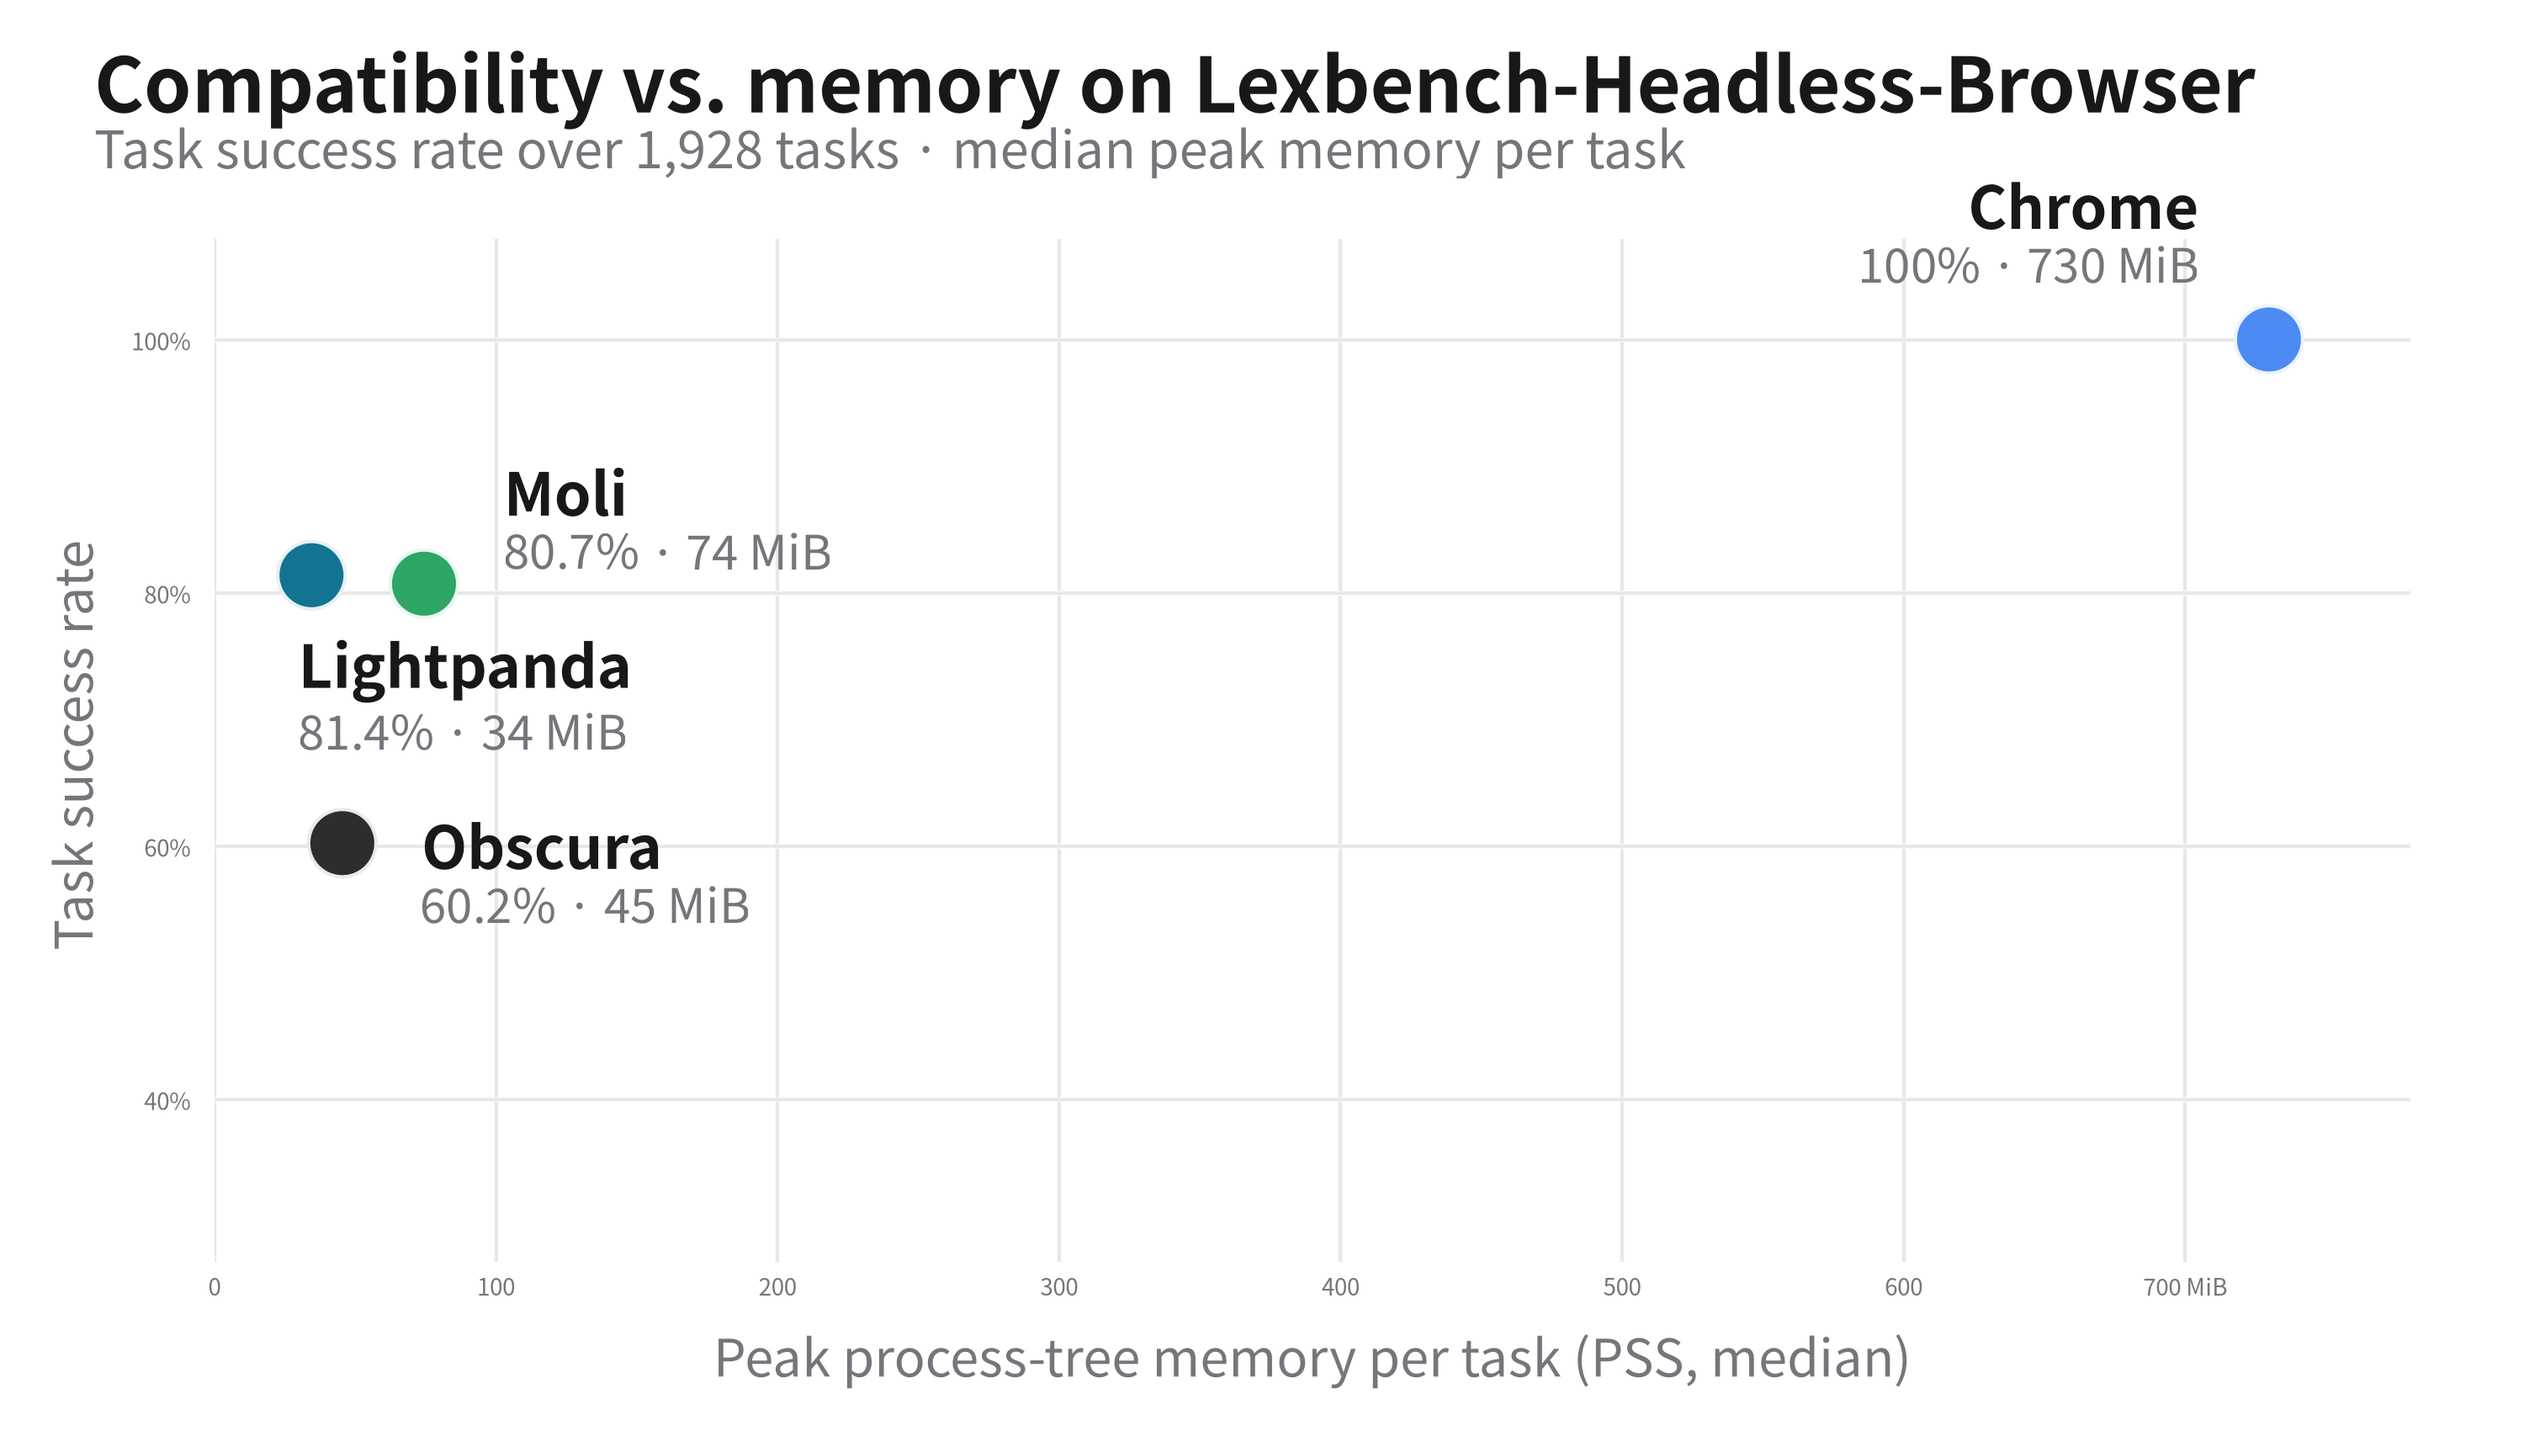
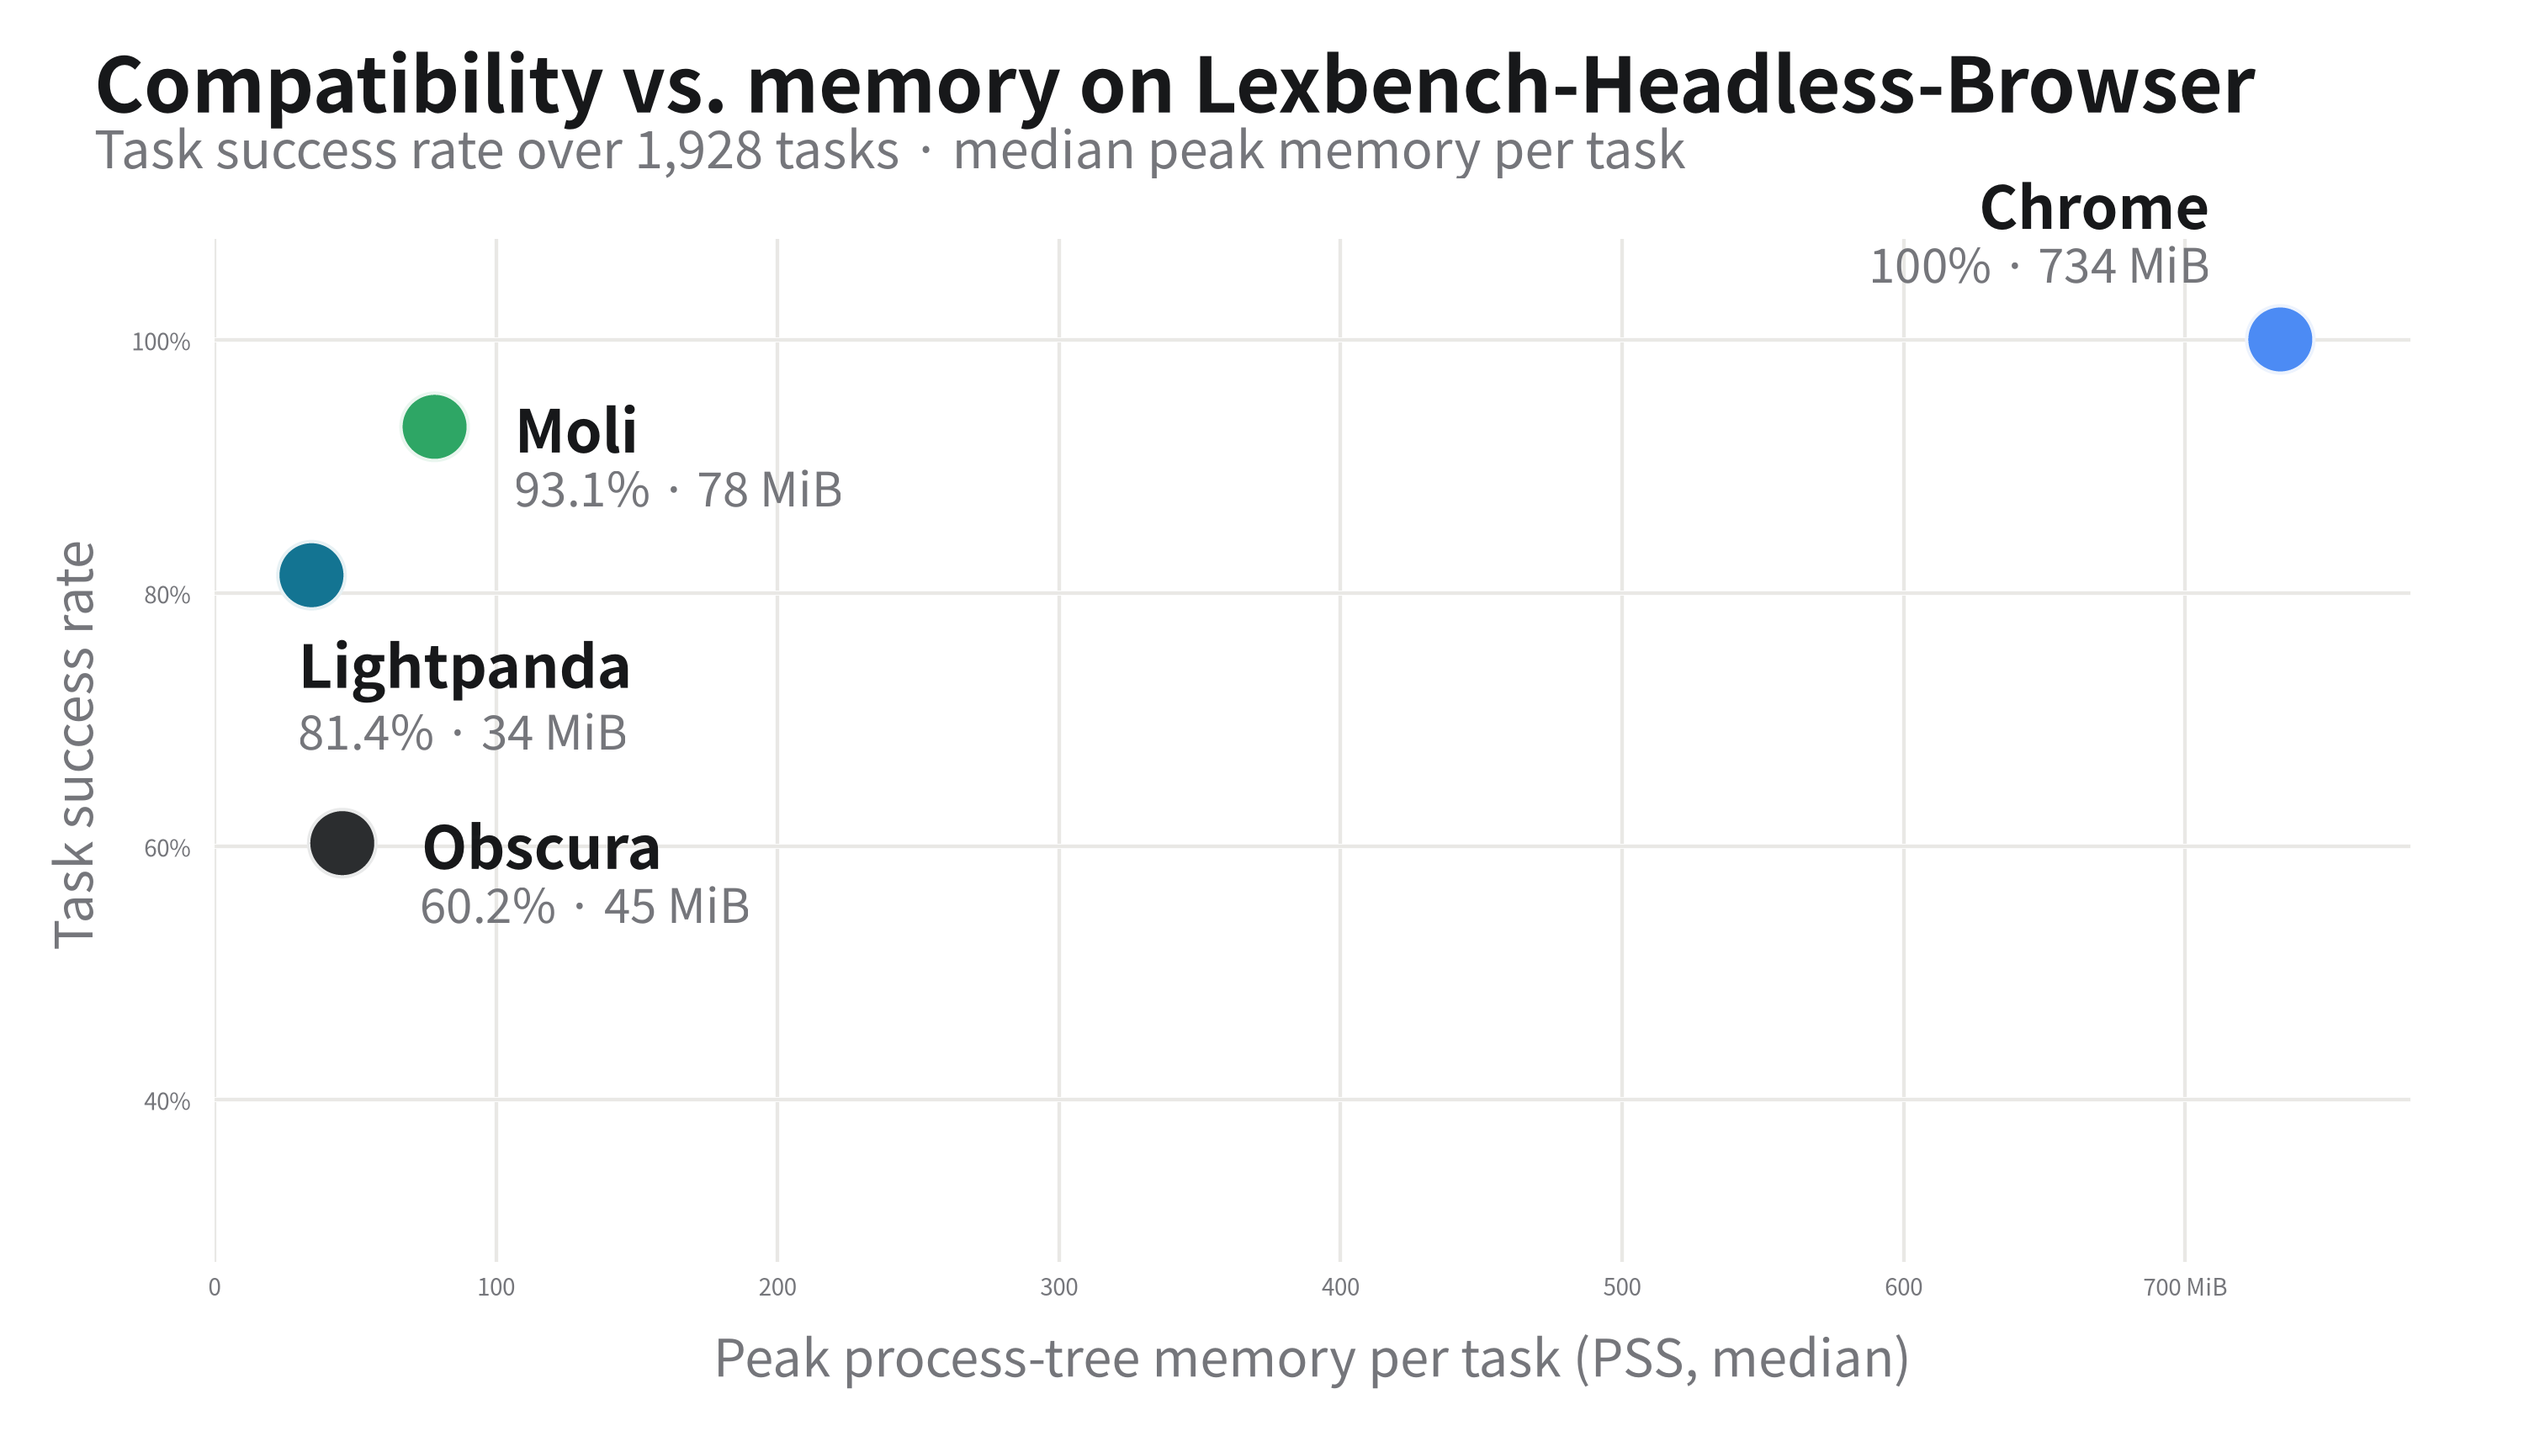
update after rebase

Changed region(s): [[0.155, 0.2773, 0.341, 0.4314], [0.744, 0.1233, 0.868, 0.2157], [0.868, 0.2157, 0.93, 0.2465]]

diff --git a/runner/run.py b/runner/run.py
@@ -195,7 +195,6 @@ ENGINE_DEFS = {
         "serve_args": ("--layout",),
         "launch_profile_args": {
             "all_resources": ("--resource",),
-            "browser_automation": ("--enable-automation",),
         },
         # Native WebDriver session identity: the capabilities.browserName the
         # session must report, and the /json/version fields (first non-empty

diff --git a/README.md b/README.md
@@ -39,7 +39,7 @@ Lexbench-Headless-Browser turns that premise into something testable: every task
 <div align="center">
   <picture>
     <source media="(prefers-color-scheme: dark)" srcset="docs/assets/four-engine-overview-dark.png">
-    <img alt="Task success rate of four headless browsers over 1,928 tasks: Chrome 100%, Lightpanda 81.4%, Moli 80.7%, Obscura 60.2%" src="docs/assets/four-engine-overview-light.png" width="100%">
+    <img alt="Task success rate of four headless browsers over 1,928 tasks: Chrome 100%, Moli 93.1%, Lightpanda 81.4%, Obscura 60.2%" src="docs/assets/four-engine-overview-light.png" width="100%">
   </picture>
 </div>
 
@@ -48,8 +48,8 @@ Lexbench-Headless-Browser turns that premise into something testable: every task
 | Engine | Version | Passed | Task success rate |
 |:---|:---|---:|---:|
 | [Chrome for Testing](https://googlechromelabs.github.io/chrome-for-testing/) | 155.0.8059.79 | 1,928 / 1,928 | **100.00%** |
+| [Moli](https://github.com/lexmount/moli) | 1.1.17 | 1,795 / 1,928 | **93.10%** |
 | [Lightpanda](https://github.com/lightpanda-io/browser) | 1.0.1 | 1,569 / 1,928 | **81.38%** |
-| [Moli](https://github.com/lexmount/moli) | 1.1.17 | 1,556 / 1,928 | **80.71%** |
 | [Obscura](https://github.com/h4ckf0r0day/obscura) | 0.2.4 | 1,161 / 1,928 | **60.22%** |
 
 </div>
@@ -60,7 +60,7 @@ Lexbench-Headless-Browser turns that premise into something testable: every task
 <div align="center">
   <picture>
     <source media="(prefers-color-scheme: dark)" srcset="docs/assets/five-engine-caliber-b-dark.png">
-    <img alt="Task success rate of five headless browsers over 1,308 comparable tasks: Chrome 100%, Moli 81.9%, Lightpanda 76.7%, Obscura 66.2%, Kitesurf 62.1%" src="docs/assets/five-engine-caliber-b-light.png" width="100%">
+    <img alt="Task success rate of five headless browsers over 1,308 comparable tasks: Chrome 100%, Moli 94.5%, Lightpanda 76.7%, Obscura 66.2%, Kitesurf 62.1%" src="docs/assets/five-engine-caliber-b-light.png" width="100%">
   </picture>
 </div>
 
@@ -69,7 +69,7 @@ Lexbench-Headless-Browser turns that premise into something testable: every task
 | Engine | Comparable subset (1,308 tasks) |
 |:---|---:|
 | [Chrome for Testing](https://googlechromelabs.github.io/chrome-for-testing/) | 1,308 / 1,308 · **100.00%** |
-| [Moli](https://github.com/lexmount/moli) | 1,071 / 1,308 · **81.88%** |
+| [Moli](https://github.com/lexmount/moli) | 1,236 / 1,308 · **94.50%** |
 | [Lightpanda](https://github.com/lightpanda-io/browser) | 1,003 / 1,308 · **76.68%** |
 | [Obscura](https://github.com/h4ckf0r0day/obscura) | 866 / 1,308 · **66.21%** |
 | [Kitesurf](https://blog.cloudflare.com/kitesurf/) (remote) | 812 / 1,308 · **62.08%** |
@@ -80,25 +80,25 @@ This comparison uses a subset of the same 1,928-task set: tasks whose failures c
 
 </details>
 
-Run parameters: run id `four_engine_full_20261016`, dataset version `0.4.2`, seed `official20260709`, k=3, 23,136 result rows. A task counts as passed only when all three attempts pass. Each engine is scored on its own attempts (`--score-mode independent`); Chrome is the reference column. Full report: [docs/reports/four-engine-report-20261016.md](docs/reports/four-engine-report-20261016.md).
+Run parameters: run id `four_engine_full_20261016b`, dataset version `0.4.2`, seed `official20260709`, k=3, 23,136 result rows. A task counts as passed only when all three attempts pass. Each engine is scored on its own attempts (`--score-mode independent`); Chrome is the reference column. Moli runs with layout on (`serve --layout`); its rows come from a Moli-only re-run with the same settings. Full report: [docs/reports/four-engine-report-20261016b.md](docs/reports/four-engine-report-20261016b.md).
 
 > [!NOTE]
 > If you care about [Kitesurf](https://blog.cloudflare.com/kitesurf/), the agent-first cloud browser Cloudflare just launched, its evaluation lives on the [`kitesurf-eval`](https://github.com/lexmount/Lexbench-Headless-Browser/blob/kitesurf-eval/README.md) branch. Kitesurf currently exists only as a remote endpoint, with no binary digest and no resource measurement, and the five-engine results are published on that branch.
 
 ## Resource Cost
 
-The lightweight engines' biggest selling point is low resource use, and whether the replacement case holds also depends on how much they actually save, so resources are measured with the same rigor as compatibility. The task set is `l1.raw_cdp` (375 tasks) plus L2's `l2.web_platform` subset (182 tasks), 557 in total; the resource round runs strictly serial (`--jobs 1`) so engines never compete for the machine. Every resource statistic is computed only on the task-attempt intersection that all four engines passed (1,321 attempts): comparing cost makes sense only when everyone finished the same work, and a task an engine failed never enters its resource account.
+The lightweight engines' biggest selling point is low resource use, and whether the replacement case holds also depends on how much they actually save, so resources are measured with the same rigor as compatibility. The task set is `l1.raw_cdp` (375 tasks) plus L2's `l2.web_platform` subset (182 tasks), 557 in total; the resource round runs strictly serial (`--jobs 1`) so engines never compete for the machine. Every resource statistic is computed only on the task-attempt intersection that all four engines passed (1,346 attempts): comparing cost makes sense only when everyone finished the same work, and a task an engine failed never enters its resource account.
 
 Because observing a process can itself distort the numbers, the measurement is a two-round A/B design: the same tasks run once with the profiler off as a baseline, then once with it on, and the two rounds are compared to quantify the disturbance of observing. A round is eligible (`resource_comparison_eligible: true`) only when that disturbance clears the calibration gate. The current round is not eligible: Obscura's Fetch interception tasks flipped between pass and fail across the two rounds, and the host was using swap. Read the numbers below as indicative.
 
 <div align="center">
   <picture>
     <source media="(prefers-color-scheme: dark)" srcset="docs/assets/efficiency-map-dark.png">
-    <img alt="Task success rate plotted against median peak memory per task: Chrome at 100% and 730 MiB, Moli at 80.7% and 74 MiB, Lightpanda at 81.4% and 34 MiB, Obscura at 60.2% and 45 MiB" src="docs/assets/efficiency-map-light.png" width="100%">
+    <img alt="Task success rate plotted against median peak memory per task: Chrome at 100% and 734 MiB, Moli at 93.1% and 78 MiB, Lightpanda at 81.4% and 34 MiB, Obscura at 60.2% and 45 MiB" src="docs/assets/efficiency-map-light.png" width="100%">
   </picture>
 </div>
 
-Median peak process-tree memory per task: Lightpanda 34 MiB, Obscura 45 MiB, Moli 74 MiB, Chrome 730 MiB. Median engine CPU time per task on the same set: 7 ms, 14 ms, 24 ms, 177 ms. Details and the calibration record are in the [resource card](docs/reports/resource-card-20261016.md).
+Median peak process-tree memory per task: Lightpanda 34 MiB, Obscura 45 MiB, Moli 78 MiB, Chrome 734 MiB. Median engine CPU time per task on the same set: 7 ms, 14 ms, 24 ms, 177 ms. Details and the calibration record are in the [resource card](docs/reports/resource-card-20261016b.md).
 
 ## Quick Start
 

diff --git a/docs/RESULTS.md b/docs/RESULTS.md
@@ -53,7 +53,7 @@ For multi-step workflow tasks the grading is two-gated: the driver's step checks
 
 Resource figures come from the separate A/B-calibrated round documented in [resource-cost.md](resource-cost.md) and [REPRODUCE.md](REPRODUCE.md). When reading them:
 
-- They are computed on the 1,321 task-attempt intersection that all four engines passed. A failed task never enters an engine's account as a cheap failure.
+- They are computed on the 1,346 task-attempt intersection that all four engines passed. A failed task never enters an engine's account as a cheap failure.
 - They describe the 557-task resource set and do not extrapolate to the full corpus.
 - Filled values are medians; the resource card also carries p95 values, PSS deltas, process counts and fixture traffic.
 - A remote engine has no process tree on the measuring machine. An empty cell means unmeasurable, never zero.
